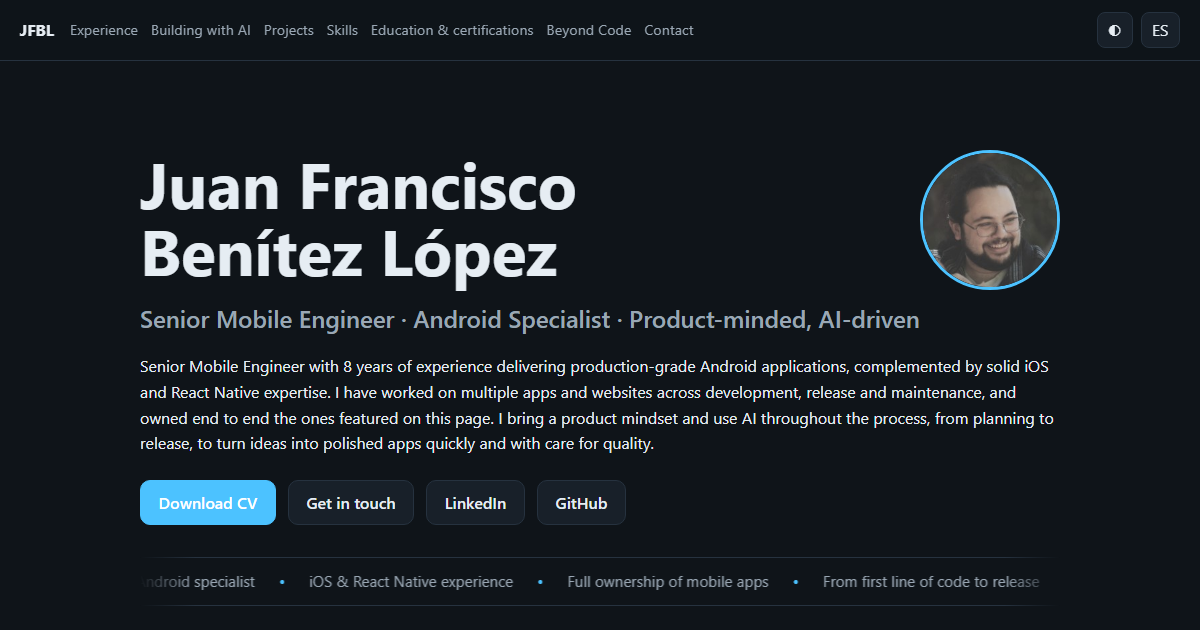
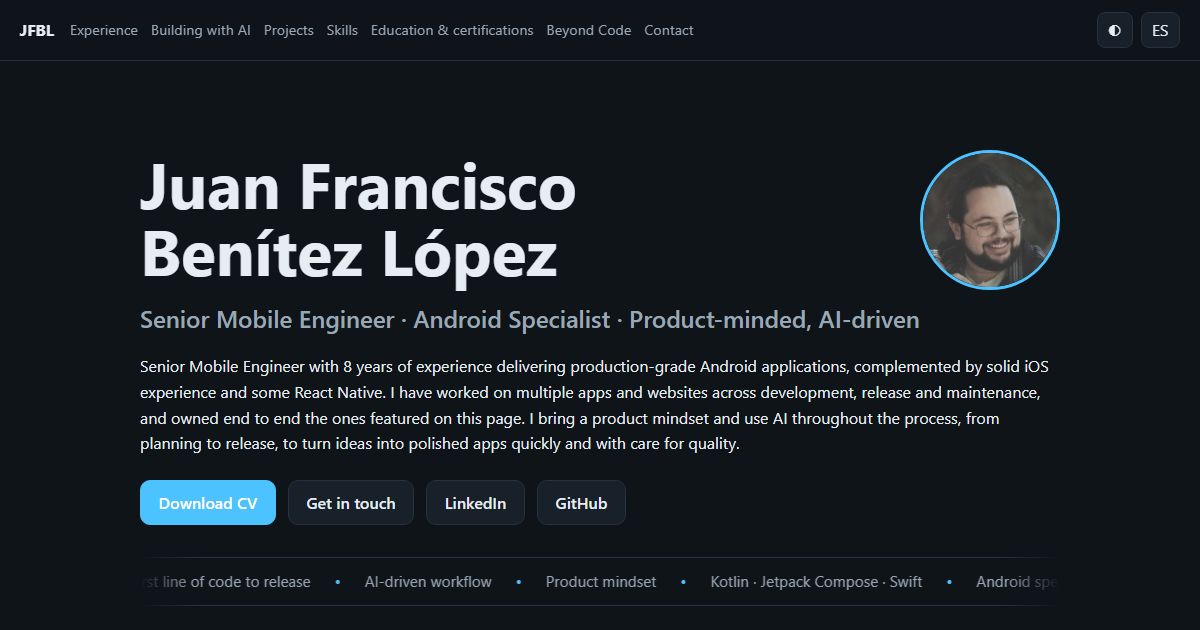
Add engineering approach section, fix mobile ownership wording, update share image
- Add "Engineering approach" block to Skills (architecture, integrations,
  quality & reliability incl. Firebase/Snowplow, collaboration & leadership),
  with Spanish translations
- Clarify Exoticca role: Android owner throughout, mobile owner of Android
  and iOS for the last 1.5 years, React Native only in the last 3 months
- Remove "React Native (Brownfield)" tags and brownfield wording from app cards
- Tone down React Native "expertise" to "experience" in hero and meta description
- Add Jetpack Compose, MVVM, Hilt, Room, Firebase tags to Exoticca entry
- Retake og-image.png with the updated hero
- Prevent "99,8 %" line break in Spanish

Changed region(s): [[0.1233, 0.6032, 0.8633, 0.7238], [0.1233, 0.9048, 0.8633, 0.9349]]

diff --git a/index.html b/index.html
@@ -4,7 +4,7 @@
   <meta charset="utf-8">
   <meta name="viewport" content="width=device-width, initial-scale=1">
   <title>Juan Francisco Benítez López · Senior Mobile Engineer</title>
-  <meta name="description" content="Senior Mobile Engineer · Android specialist with iOS and React Native expertise.">
+  <meta name="description" content="Senior Mobile Engineer · Android specialist with iOS and React Native experience.">
   <meta property="og:type" content="website">
   <link rel="icon" type="image/svg+xml" href="assets/favicon.svg">
   <meta property="og:title" content="Juan Francisco Benítez López · Senior Mobile Engineer">
@@ -57,7 +57,7 @@
         <img class="avatar" src="assets/photo.jpg" alt="Juan Francisco Benítez López" width="140" height="140">
       </div>
       <h2 data-i18n="hero.headline">Senior Mobile Engineer · Android Specialist · Product-minded, AI-driven</h2>
-      <p class="lead" data-i18n="hero.summary">Senior Mobile Engineer with 8 years of experience delivering production-grade Android applications, complemented by solid iOS and React Native expertise. I have worked on multiple apps and websites across development, release and maintenance, and owned end to end the ones featured on this page. I bring a product mindset and use AI throughout the process, from planning to release, to turn ideas into polished apps quickly and with care for quality.</p>
+      <p class="lead" data-i18n="hero.summary">Senior Mobile Engineer with 8 years of experience delivering production-grade Android applications, complemented by solid iOS experience and some React Native. I have worked on multiple apps and websites across development, release and maintenance, and owned end to end the ones featured on this page. I bring a product mindset and use AI throughout the process, from planning to release, to turn ideas into polished apps quickly and with care for quality.</p>
       <div class="cta">
         <a class="btn primary" href="assets/cv-en.pdf" data-cv data-i18n="hero.cv">Download CV</a>
         <a class="btn" href="#contact" data-i18n="hero.contact">Get in touch</a>
@@ -94,14 +94,14 @@
         <article>
           <span class="date" data-i18n="exp.exoticca.date">Apr 2022 – Sep 2026 · 4 yrs 6 mos</span>
           <h4>Exoticca · <span data-i18n="exp.exoticca.role">Mobile Engineer</span></h4>
-          <p data-i18n="exp.exoticca.desc">Involved from the first line of code on Exoticca's mobile apps. I started as the only Android developer, grew into a two-person team, and ended up as the sole owner of both the Android and iOS apps (B2C and B2B). I designed and delivered features from zero to deployment, including release management and maintenance. I brought UX ideas from the user's point of view and helped evolve the apps into a brownfield React Native architecture. I worked with AI agents and GitHub Copilot to ship faster without lowering the quality bar.</p>
-          <div class="tags"><span>Kotlin</span><span>Swift</span><span>React Native</span><span>AI Agents</span></div>
+          <p data-i18n="exp.exoticca.desc">Involved from the first line of code on Exoticca's mobile apps. I started as the only Android developer, grew into a two-person team, and ended up as the sole owner of both the Android and iOS apps (B2C and B2B). I was the Android owner throughout, and for the last year and a half I combined that with owning the iOS app as mobile owner of both. React Native came in only during the last three months. I designed and delivered features from zero to deployment, including release management and maintenance, and brought UX ideas from the user's point of view. I worked with AI agents and GitHub Copilot to ship faster without lowering the quality bar.</p>
+          <div class="tags"><span>Kotlin</span><span>Jetpack Compose</span><span>MVVM</span><span>Hilt</span><span>Room</span><span>Swift</span><span>React Native</span><span>Firebase</span><span>AI Agents</span></div>
           <div class="grid sub">
             <article class="card">
               <h4>Travelers' App</h4>
               <span class="meta" data-i18n="proj.travelers.meta">Android · iOS · 2022 – 2026</span>
-              <p data-i18n="proj.travelers.desc">Exoticca's customer-facing (B2C) travel app. I was involved from the first line of code and designed and delivered features from zero to deployment on Android and iOS. Later evolved into a brownfield React Native architecture.</p>
-              <div class="tags"><span>Kotlin</span><span>Swift</span><span>React Native (Brownfield)</span></div>
+              <p data-i18n="proj.travelers.desc">Exoticca's customer-facing (B2C) travel app. I was involved from the first line of code and designed and delivered features from zero to deployment on Android and iOS. React Native was added later on.</p>
+              <div class="tags"><span>Kotlin</span><span>Swift</span></div>
               <p class="rating"><span>★ 4.2+ Google Play &amp; App Store</span></p>
               <div class="links"><a href="https://play.google.com/store/apps/details?id=com.exoticca.android" target="_blank" rel="noopener">Google Play ↗</a> <a href="https://apps.apple.com/es/app/exoticca-app-para-viajeros/id1604571536" target="_blank" rel="noopener">App Store ↗</a></div>
             </article>
@@ -110,7 +110,7 @@
               <span class="meta" data-i18n="proj.mytrip.meta">Android · iOS · B2B · 2026</span>
               <p data-i18n="proj.mytrip.desc">Travel companion for Exoticca's B2B partners and their travelers. Built with AI in about two weeks; it helped retain a key client contract.</p>
               <p class="more"><a href="#ai" data-highlight="my-trip" data-i18n="more.mytrip">How I used AI to do it ↓</a></p>
-              <div class="tags"><span>Kotlin</span><span>Swift</span><span>React Native (Brownfield)</span></div>
+              <div class="tags"><span>Kotlin</span><span>Swift</span></div>
               <p class="rating"><span>★ 4.7+ Google Play &amp; App Store</span></p>
               <div class="links"><a href="https://play.google.com/store/apps/details?id=com.exoticca.android.partners" target="_blank" rel="noopener">Google Play ↗</a> <a href="https://apps.apple.com/es/app/my-trip-compa%C3%B1ero-de-viaje/id6795553466" target="_blank" rel="noopener">App Store ↗</a></div>
             </article>
@@ -225,6 +225,17 @@
 
     <section id="skills">
       <h3 class="section-title" data-i18n="nav.skills">Skills</h3>
+      <h4 class="subtitle" data-i18n="eng.title">Engineering approach</h4>
+      <dl class="eng">
+        <dt data-i18n="eng.arch.label">Architecture</dt>
+        <dd data-i18n="eng.arch.text">Native Android with MVVM, Hilt, Room for offline caching, Jetpack Compose and Retrofit/OkHttp. I have made most of the architecture decisions on my projects, and I have done migrations from XML to Compose in the past.</dd>
+        <dt data-i18n="eng.int.label">Integrations</dt>
+        <dd data-i18n="eng.int.text">Payment libraries such as Redsys, charts with MPAndroidChart, and Android devices with hardware like Sunmi printers.</dd>
+        <dt data-i18n="eng.quality.label">Quality &amp; reliability</dt>
+        <dd data-i18n="eng.quality.text">Unit tests, maintaining the CI/CD pipeline, crash monitoring, A/B testing and Remote Config with Firebase, and analytics event tracking with Snowplow. I fixed crashes and production incidents and worked on performance, keeping the crash-free users rate above 99.8%.</dd>
+        <dt data-i18n="eng.team.label">Collaboration &amp; leadership</dt>
+        <dd data-i18n="eng.team.text">Code reviews, onboarding new developers, and coordinating releases with backend, UX, QA and product.</dd>
+      </dl>
       <div class="skills carousel" id="skill-list">
         <div class="skill-group">
           <h4 data-i18n="skills.Mobile">Mobile</h4>

diff --git a/script.js b/script.js
@@ -19,10 +19,19 @@ const es = {
   "ai.minimo.desc": "Remind, Tabata y Vault están hechas con la IA como apoyo en cada fase: idea, diseño, desarrollo, pruebas y publicación.",
   "beyond.text": "Cuando desconecto, lo normal es encontrarme perdido en un videojuego, metido en un libro o un manga, o viendo una buena película o serie con amigos. También me gusta participar en game jams, creando juegos desde cero en pocos días. Me encanta estar en plena naturaleza y soy un gran amante de los animales. Encantado de hablar de cualquiera de estos temas tomando un café.",
   "hero.headline": "Senior Mobile Engineer · Especialista en Android · Visión de producto y desarrollo con IA",
-  "hero.summary": "Senior Mobile Engineer con 8 años de experiencia llevando aplicaciones Android a producción, complementada con sólida experiencia en iOS y React Native. He trabajado en múltiples aplicaciones y webs a lo largo del desarrollo, la publicación y el mantenimiento, y he asumido de principio a fin las que aparecen en esta página. Combino visión de producto con IA, de la planificación a la publicación, para convertir ideas en apps cuidadas y lanzarlas con rapidez.",
+  "hero.summary": "Senior Mobile Engineer con 8 años de experiencia llevando aplicaciones Android a producción, complementada con sólida experiencia en iOS y algo de React Native. He trabajado en múltiples aplicaciones y webs a lo largo del desarrollo, la publicación y el mantenimiento, y he asumido de principio a fin las que aparecen en esta página. Combino visión de producto con IA, de la planificación a la publicación, para convertir ideas en apps cuidadas y lanzarlas con rapidez.",
   "hero.cv": "Descargar CV", "hero.contact": "Contactar",
   "exp.exoticca.date": "Abr 2022 – Sep 2026 · 4 años 6 meses", "exp.exoticca.role": "Mobile Engineer",
-  "exp.exoticca.desc": "Participé en las apps móviles de Exoticca desde la primera línea de código. Empecé como único desarrollador Android, pasé a un equipo de dos y acabé como responsable único de las apps de Android e iOS (B2C y B2B). Diseñé y lancé funcionalidades de cero a producción, además de gestionar las publicaciones y el mantenimiento. Propuse mejoras de UX desde el punto de vista del usuario y ayudé a evolucionar las apps hacia una arquitectura brownfield con React Native. Trabajé con agentes de IA y GitHub Copilot para ir más rápido sin bajar la calidad.",
+  "exp.exoticca.desc": "Participé en las apps móviles de Exoticca desde la primera línea de código. Empecé como único desarrollador Android, pasé a un equipo de dos y acabé como responsable único de las apps de Android e iOS (B2C y B2B). Fui responsable de Android durante todo el tiempo y, en el último año y medio, combiné ese rol con la responsabilidad de la app de iOS, como mobile owner de ambas. React Native llegó solo en los últimos tres meses. Diseñé y lancé funcionalidades de cero a producción, además de gestionar las publicaciones y el mantenimiento, y aporté ideas de UX desde el punto de vista del usuario. Trabajé con agentes de IA y GitHub Copilot para ir más rápido sin bajar la calidad.",
+  "eng.title": "Enfoque de ingeniería",
+  "eng.int.label": "Integraciones",
+  "eng.int.text": "Librerías de pago como Redsys, gráficas con MPAndroidChart y dispositivos Android con hardware como impresoras Sunmi.",
+  "eng.arch.label": "Arquitectura",
+  "eng.arch.text": "Android nativo con MVVM, Hilt, Room para caché offline, Jetpack Compose y Retrofit/OkHttp. He tomado la mayoría de las decisiones de arquitectura en mis proyectos y he hecho migraciones de XML a Compose en el pasado.",
+  "eng.quality.label": "Calidad y fiabilidad",
+  "eng.quality.text": "Tests unitarios, mantenimiento del pipeline de CI/CD, monitorización de crashes, A/B testing y Remote Config con Firebase, y seguimiento de eventos de analítica con Snowplow. Resolví crashes e incidencias en producción y trabajé en rendimiento, manteniendo la tasa de usuarios sin crashes por encima del 99,8 %.",
+  "eng.team.label": "Colaboración y liderazgo",
+  "eng.team.text": "Revisiones de código, onboarding de nuevos desarrolladores y coordinación de lanzamientos con backend, UX, QA y producto.",
   "exp.csq.date": "Jun 2020 – Abr 2022 · 1 año 11 meses", "exp.csq.role": "Desarrollador de software",
   "exp.csq.desc": "Mantuve las aplicaciones Android de la empresa y desarrollé nuevas funcionalidades en apps, web y backend. Trabajé con librerías de pago (Redsys) y dispositivos Android con impresora (Sunmi).",
   "exp.tutor.date": "Abr 2020 – Abr 2022 · 2 años 1 mes", "exp.tutor.role": "Profesor particular de programación",
@@ -46,7 +55,7 @@ const es = {
   "proj.student": "Proyectos de estudios",
   "student.desc": "Proyectos realizados durante mis estudios, donde aprendí desarrollo móvil y diseño de videojuegos.",
   "proj.travelers.meta": "Android · iOS · 2022 – 2026",
-  "proj.travelers.desc": "App de viajes para clientes finales (B2C) de Exoticca. Participé en su desarrollo desde el inicio y diseñé y lancé funcionalidades en Android e iOS. Con el tiempo, la app evolucionó a una arquitectura brownfield con React Native.",
+  "proj.travelers.desc": "App de viajes para clientes finales (B2C) de Exoticca. Participé en su desarrollo desde el inicio y diseñé y lancé funcionalidades en Android e iOS. Más adelante se incorporó React Native.",
   "proj.mytrip.meta": "Android · iOS · B2B · 2026",
   "proj.mytrip.desc": "App compañera de viaje para las agencias B2B de Exoticca y sus viajeros. Desarrollada con IA en unas dos semanas, fue clave para retener a un cliente importante.",
   "tick.android": "Especialista en Android",
@@ -95,7 +104,7 @@ function apply() {
   langBtn.textContent = lang === "es" ? "EN" : "ES";
   const desc = lang === "es"
     ? "Senior Mobile Engineer · Especialista en Android con experiencia en iOS y React Native."
-    : "Senior Mobile Engineer · Android specialist with iOS and React Native expertise.";
+    : "Senior Mobile Engineer · Android specialist with iOS and React Native experience.";
   document.querySelector('meta[name="description"]').setAttribute("content", desc);
 }
 

diff --git a/style.css b/style.css
@@ -137,3 +137,7 @@ footer a { color: inherit; text-decoration: underline; text-underline-offset: 2p
   .ticker-group[aria-hidden="true"] { display: none; }
   .ticker-group { flex-wrap: wrap; row-gap: .4rem; }
 }
+.eng { display: grid; grid-template-columns: max-content 1fr; gap: .5rem 1.25rem; margin: 1rem 0 1.75rem; font-size: .92rem; }
+.eng dt { color: var(--accent); font-weight: 600; }
+.eng dd { margin: 0; }
+@media (max-width: 600px) { .eng { grid-template-columns: 1fr; gap: .15rem; } .eng dd { margin-bottom: .6rem; } }
